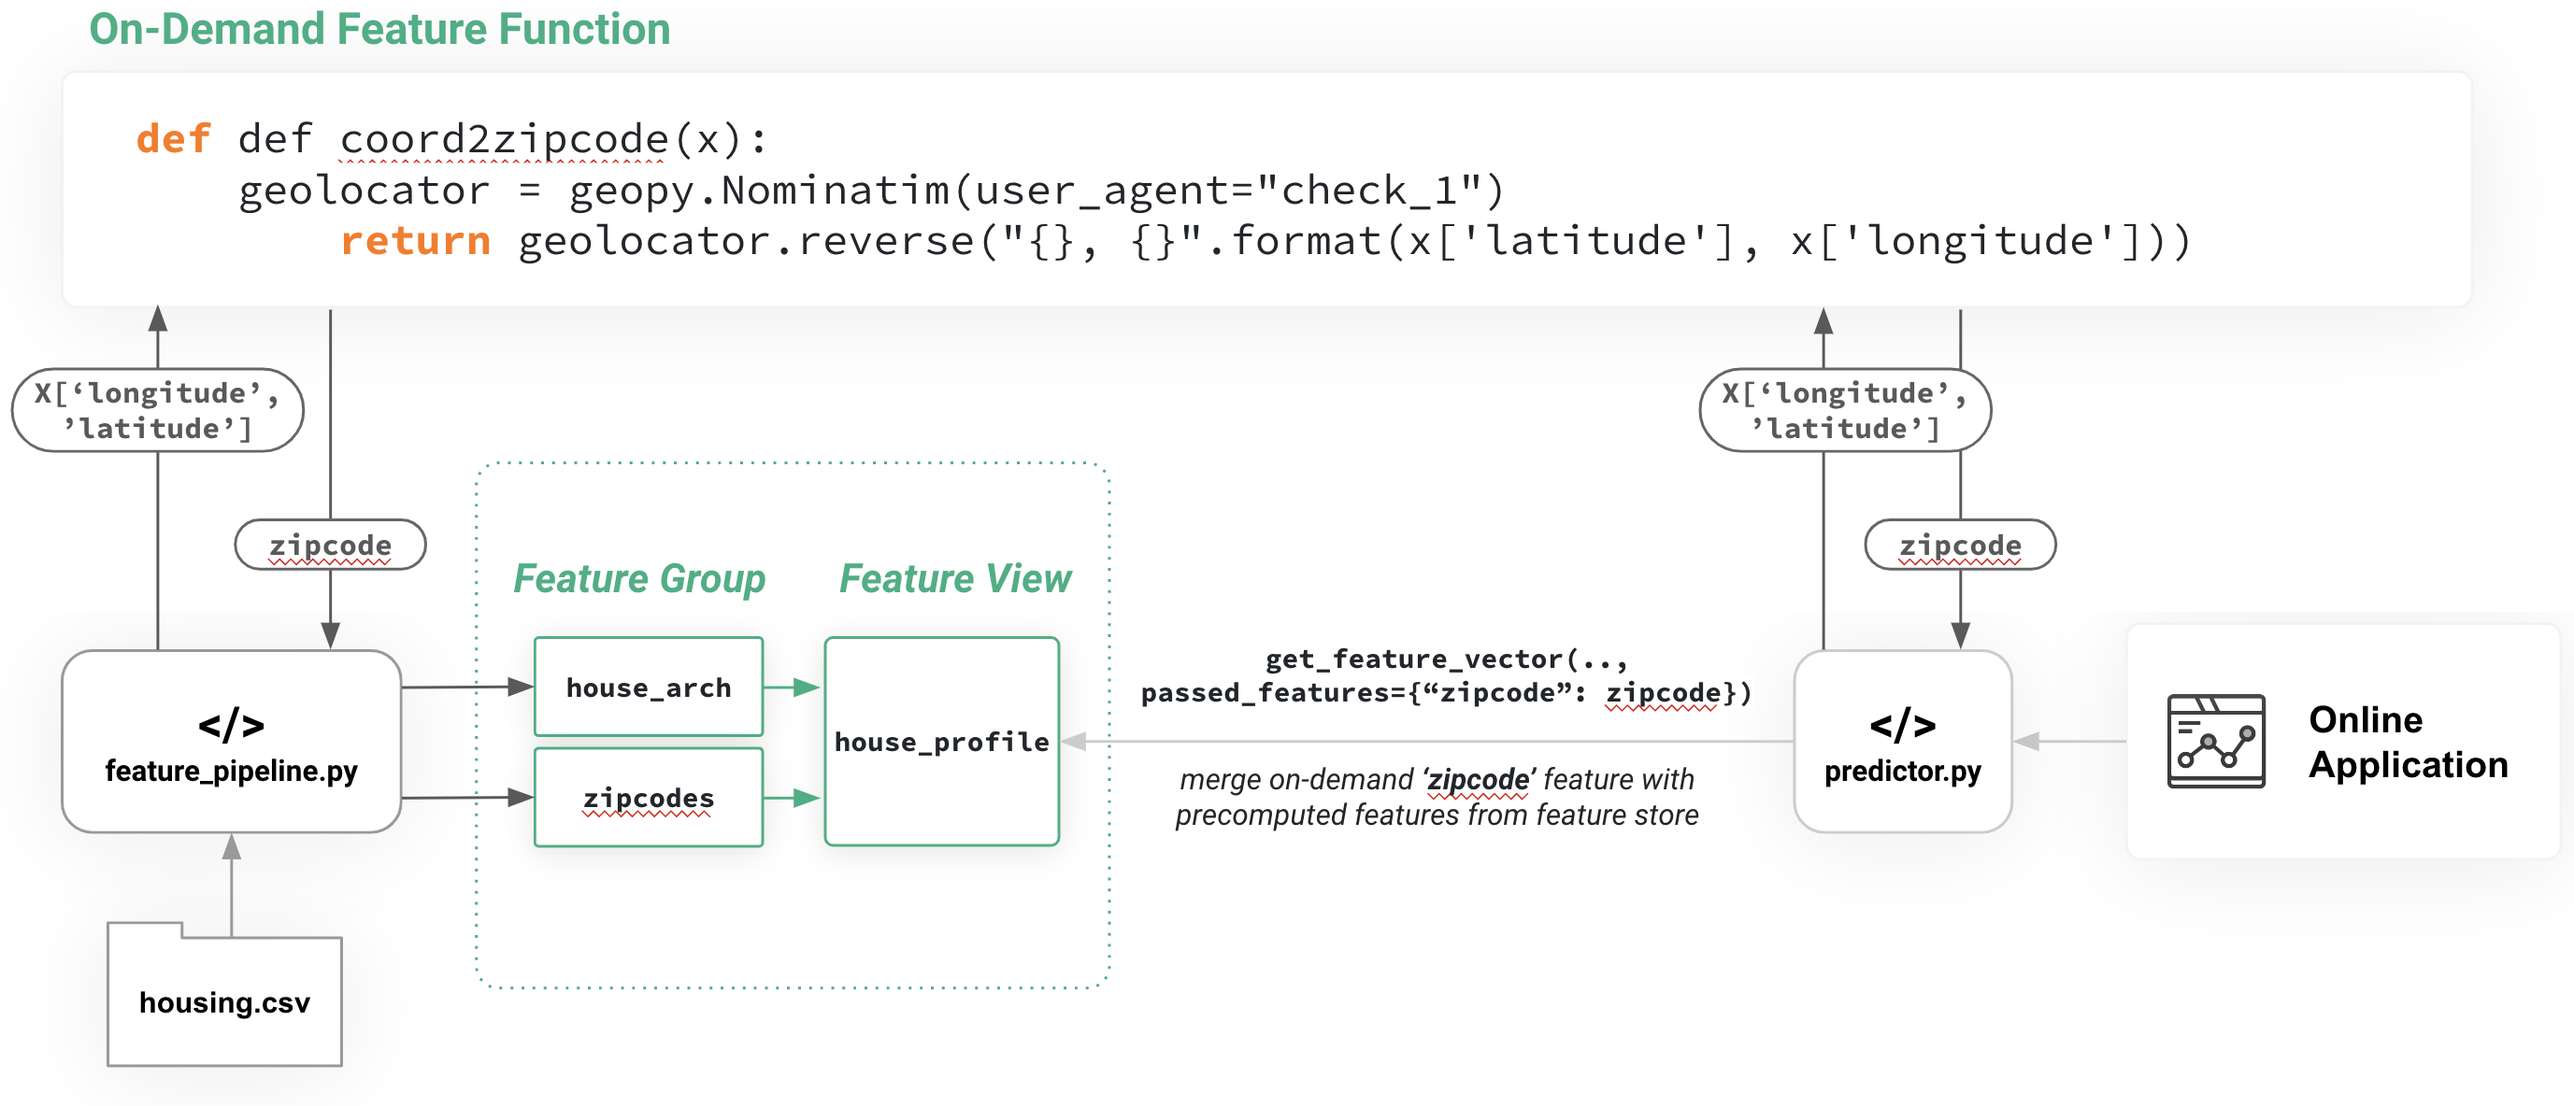
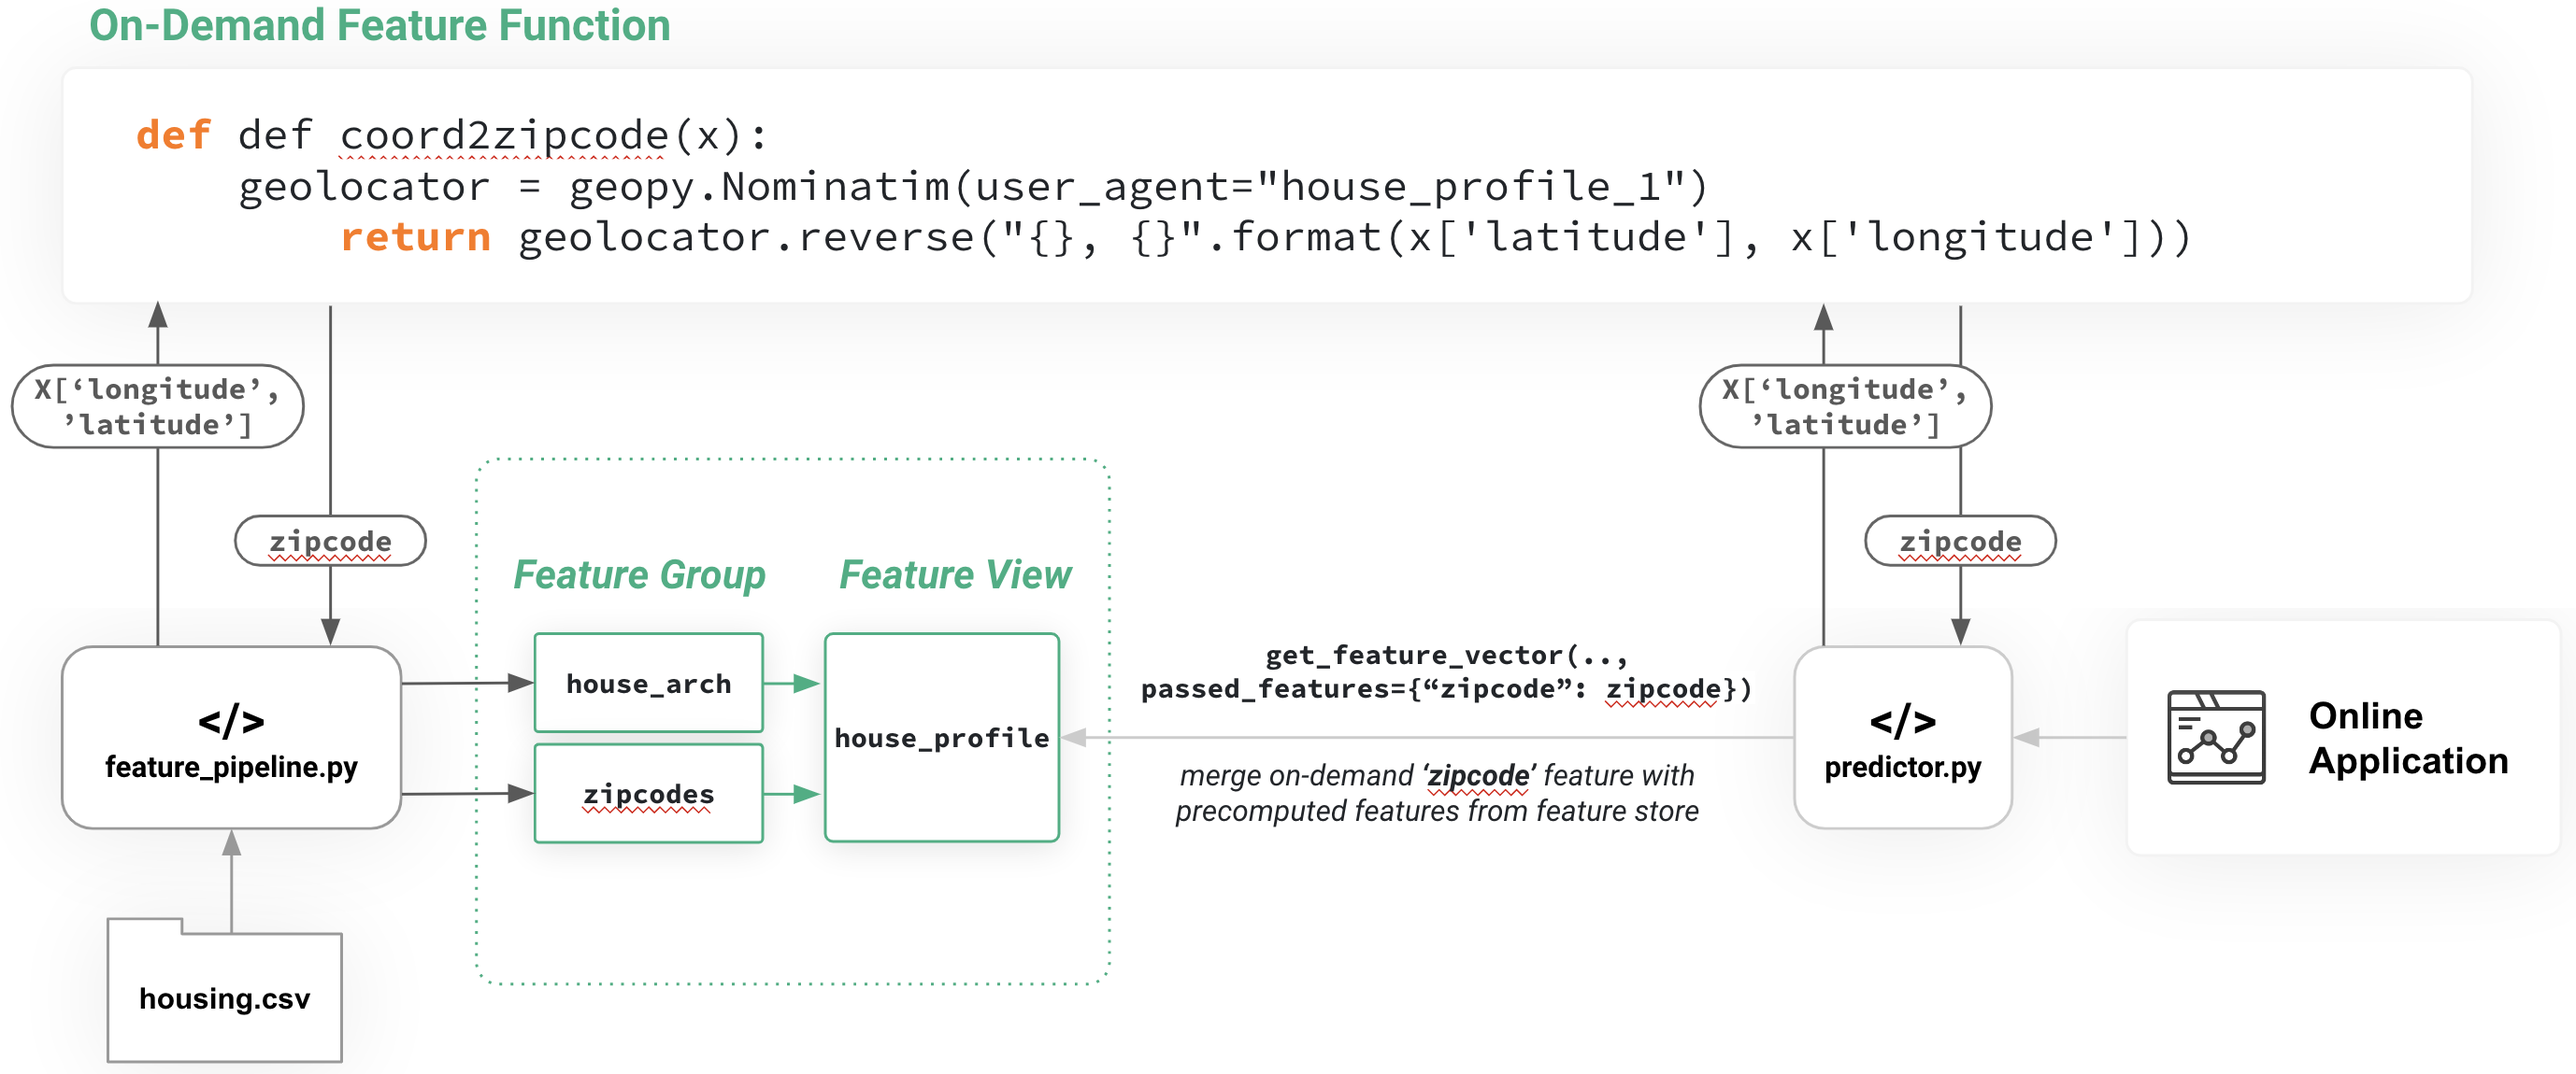
address comments

diff --git a/advanced_tutorials/on_demand_feature/on_demand_feature/features/coord_to_postcode.py b/advanced_tutorials/on_demand_feature/on_demand_feature/features/coord_to_postcode.py
@@ -2,7 +2,7 @@ import geopy
 
 
 def coord2zipcode(x):
-    geolocator = geopy.Nominatim(user_agent="check_1")
+    geolocator = geopy.Nominatim(user_agent="house_profile_1")
     location = geolocator.reverse("{}, {}".format(x['latitude'], x['longitude']))
     if 'address' in location.raw:
         if 'postcode' in location.raw['address']:
